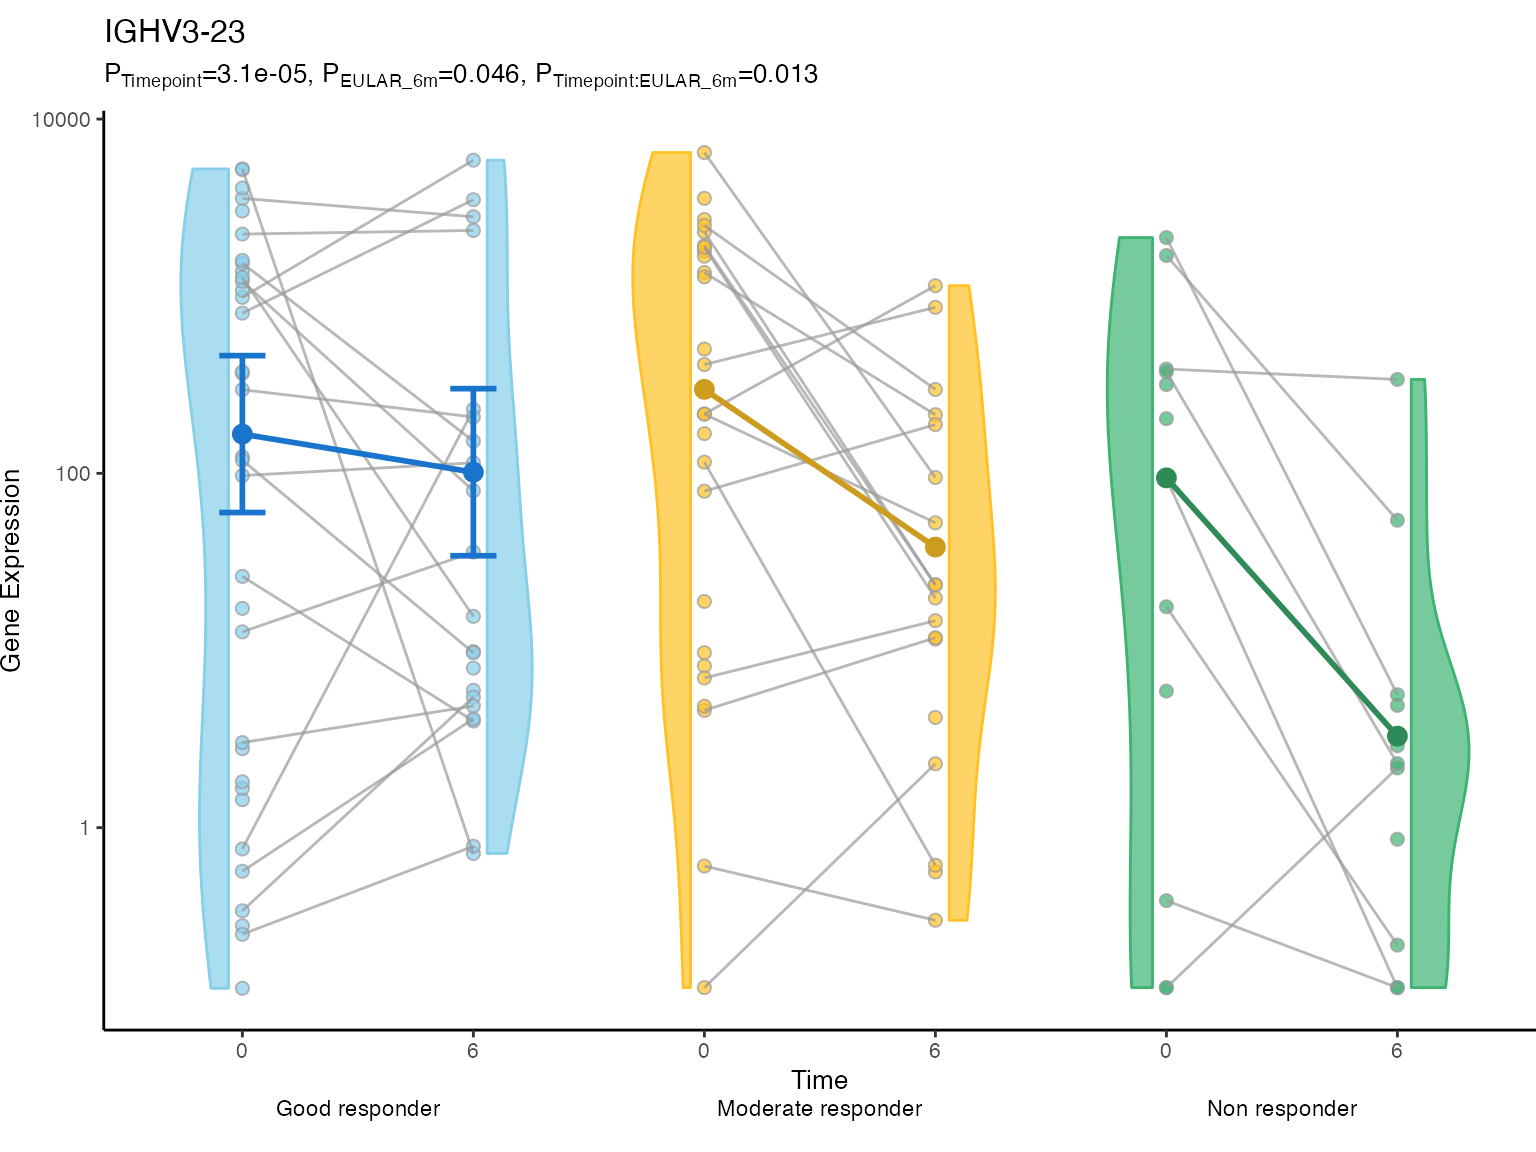
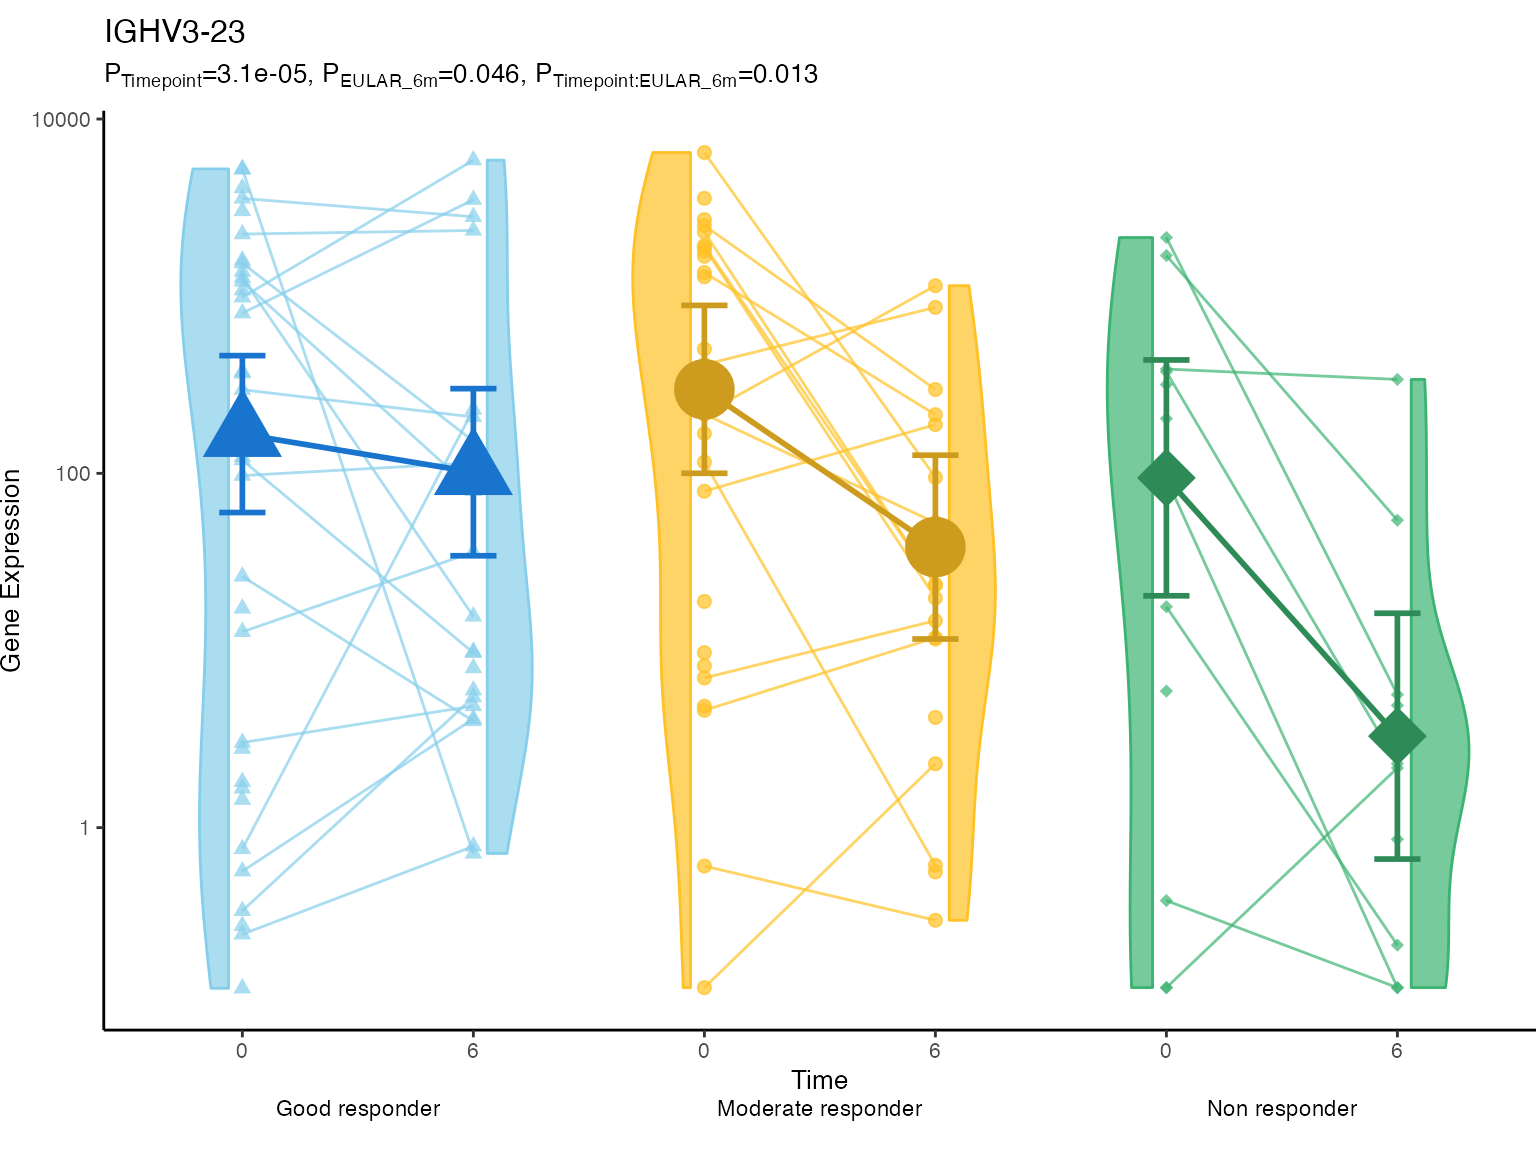
udpate website

diff --git a/docs/articles/glmmSeq.html b/docs/articles/glmmSeq.html
@@ -97,7 +97,7 @@
       <h1 data-toc-skip>glmmSeq</h1>
                         <h4 class="author">Myles Lewis, Katriona Goldmann, Elisabetta Sciacca, Cankut Cubuk, Anna Surace</h4>
             
-            <h4 class="date">2021-04-18</h4>
+            <h4 class="date">2021-05-13</h4>
       
       <small class="dont-index">Source: <a href="https://github.com/KatrionaGoldmann/glmmSeq/blob/master/vignettes/glmmSeq.rmd"><code>vignettes/glmmSeq.rmd</code></a></small>
       <div class="hidden name"><code>glmmSeq.rmd</code></div>
@@ -113,7 +113,7 @@
   margin-right: auto;
 }
 </style>
-<p><a href="https://lifecycle.r-lib.org/articles/stages.html#stable"><img src="https://img.shields.io/badge/lifecycle-stable-blue.svg" alt="Lifecycle: Maturing"></a> <a href="https://choosealicense.com/licenses/mit/"><img src="https://img.shields.io/badge/License-MIT-mediumpurple.svg" alt="License: MIT"></a> <a href="https://CRAN.R-project.org/package=glmmSeq"><img src="https://www.r-pkg.org/badges/version/glmmSeq" alt="CRAN status"></a> <a href="https://CRAN.R-project.org/package=glmmSeq"><img src="https://cranlogs.r-pkg.org/badges/grand-total/glmmSeq?color=orange" alt="Downloads"></a> <a href="https://github.com/KatrionaGoldmann/glmmSeq/blob/master/NEWS.md"><img src="https://img.shields.io/badge/last%20git%20commit-2021--04--18-turquoise.svg" alt="2021-04-18"></a> <a href="https://GitHub.com/KatrionaGoldmann/glmmSeq/issues/"><img src="https://img.shields.io/github/issues/KatrionaGoldmann/glmmSeq.svg" alt="GitHub issues"></a> <a href="https://github.com/KatrionaGoldmann/glmmSeq"><img src="https://img.shields.io/travis/KatrionaGoldmann/glmmSeq.svg" alt="Travis"></a></p>
+<p><a href="https://lifecycle.r-lib.org/articles/stages.html#stable"><img src="https://img.shields.io/badge/lifecycle-stable-blue.svg" alt="Lifecycle: Maturing"></a> <a href="https://choosealicense.com/licenses/mit/"><img src="https://img.shields.io/badge/License-MIT-mediumpurple.svg" alt="License: MIT"></a> <a href="https://CRAN.R-project.org/package=glmmSeq"><img src="https://www.r-pkg.org/badges/version/glmmSeq" alt="CRAN status"></a> <a href="https://CRAN.R-project.org/package=glmmSeq"><img src="https://cranlogs.r-pkg.org/badges/grand-total/glmmSeq?color=orange" alt="Downloads"></a> <a href="https://github.com/KatrionaGoldmann/glmmSeq/blob/master/NEWS.md"><img src="https://img.shields.io/badge/last%20git%20commit-2021--05--13-turquoise.svg" alt="2021-05-13"></a> <a href="https://GitHub.com/KatrionaGoldmann/glmmSeq/issues/"><img src="https://img.shields.io/github/issues/KatrionaGoldmann/glmmSeq.svg" alt="GitHub issues"></a> <a href="https://github.com/KatrionaGoldmann/glmmSeq"><img src="https://img.shields.io/travis/KatrionaGoldmann/glmmSeq.svg" alt="Travis"></a></p>
 <div id="glmmseq" class="section level1">
 <h1 class="hasAnchor">
 <a href="#glmmseq" class="anchor"></a>glmmSeq</h1>
@@ -3042,7 +3042,7 @@ div.blue { background-color:#e6f0ff; border-radius: 5px; padding: 10px; text-ali
                   cores <span class="op">=</span> <span class="fl">1</span><span class="op">)</span></code></pre></div>
 <pre><code>## 
 ## n = 124 samples, 82 individuals
-## Time difference of 22.63919 secs</code></pre>
+## Time difference of 20.6023 secs</code></pre>
 <p>or alternatively using two-factor classification with EULAR_binary:</p>
 <div class="sourceCode" id="cb20"><pre class="downlit sourceCode r">
 <code class="sourceCode R"><span class="va">results2</span> <span class="op">&lt;-</span> <span class="fu"><a href="../reference/glmmSeq.html">glmmSeq</a></span><span class="op">(</span><span class="op">~</span> <span class="va">Timepoint</span> <span class="op">*</span> <span class="va">EULAR_binary</span> <span class="op">+</span> <span class="op">(</span><span class="fl">1</span> <span class="op">|</span> <span class="va">PATID</span><span class="op">)</span>,
@@ -3055,7 +3055,7 @@ div.blue { background-color:#e6f0ff; border-radius: 5px; padding: 10px; text-ali
                   cores <span class="op">=</span> <span class="fl">1</span><span class="op">)</span></code></pre></div>
 <pre><code>## 
 ## n = 124 samples, 82 individuals
-## Time difference of 20.82469 secs</code></pre>
+## Time difference of 20.19051 secs</code></pre>
 <div id="outputs" class="section level2">
 <h2 class="hasAnchor">
 <a href="#outputs" class="anchor"></a>Outputs</h2>
@@ -8782,7 +8782,10 @@ LILRB3
 <p>Plots can be viewed using either ggplot or base graphics. We can start looking at the gene with the most significant interaction <em>IGHV3-23</em>:</p>
 <div class="sourceCode" id="cb32"><pre class="downlit sourceCode r">
 <code class="sourceCode R"><span class="va">plotColours</span> <span class="op">&lt;-</span> <span class="fu"><a href="https://rdrr.io/r/base/c.html">c</a></span><span class="op">(</span><span class="st">"skyblue"</span>, <span class="st">"goldenrod1"</span>, <span class="st">"mediumseagreen"</span><span class="op">)</span>
-<span class="va">modColours</span> <span class="op">&lt;-</span> <span class="fu"><a href="https://rdrr.io/r/base/c.html">c</a></span><span class="op">(</span><span class="st">"dodgerblue3"</span>, <span class="st">"goldenrod3"</span>, <span class="st">"seagreen4"</span><span class="op">)</span>
+<span class="va">modColours</span> <span class="op">&lt;-</span> <span class="fu"><a href="https://rdrr.io/r/base/c.html">c</a></span><span class="op">(</span><span class="st">"Good responder"</span><span class="op">=</span><span class="st">"dodgerblue3"</span>, 
+                <span class="st">"Moderate responder"</span><span class="op">=</span> <span class="st">"goldenrod3"</span>, 
+                <span class="st">"Non responder"</span><span class="op">=</span><span class="st">"seagreen4"</span><span class="op">)</span>
+<span class="va">shapes</span> <span class="op">&lt;-</span> <span class="fu"><a href="https://rdrr.io/r/base/c.html">c</a></span><span class="op">(</span><span class="st">"Moderate responder"</span><span class="op">=</span><span class="fl">19</span>, <span class="st">"Good responder"</span><span class="op">=</span> <span class="fl">17</span>, <span class="st">"Non responder"</span><span class="op">=</span><span class="fl">18</span><span class="op">)</span>
 
 <span class="fu"><a href="../reference/pairedPlot.html">pairedPlot</a></span><span class="op">(</span>glmmResult<span class="op">=</span><span class="va">results</span>,
            geneName <span class="op">=</span> <span class="st">"IGHV3-23"</span>,
@@ -8792,9 +8795,11 @@ LILRB3
            IDColumn <span class="op">=</span> <span class="st">"PATID"</span>,
            graphics <span class="op">=</span> <span class="st">"ggplot"</span>,
            colours <span class="op">=</span> <span class="va">plotColours</span>,
-           modelColour <span class="op">=</span> <span class="va">modColours</span>,
-           modelLineColour <span class="op">=</span> <span class="va">modColours</span>,
-           lineColour <span class="op">=</span> <span class="st">"grey60"</span>,
+           shapes <span class="op">=</span> <span class="va">shapes</span>,
+           lineColours <span class="op">=</span> <span class="va">plotColours</span>, 
+           modelColours <span class="op">=</span> <span class="va">modColours</span>,
+           modelLineColours <span class="op">=</span> <span class="va">modColours</span>,
+           modelSize <span class="op">=</span> <span class="fl">10</span>, 
            fontSize<span class="op">=</span><span class="fl">10</span>,
            x2Offset <span class="op">=</span> <span class="fl">8</span>,
            logTransform<span class="op">=</span><span class="cn">TRUE</span>,
@@ -8815,8 +8820,8 @@ LILRB3
                 fontSize<span class="op">=</span><span class="fl">0.65</span>,
                 colours<span class="op">=</span><span class="fu"><a href="https://rdrr.io/r/base/c.html">c</a></span><span class="op">(</span><span class="st">"coral"</span>, <span class="st">"mediumseagreen"</span><span class="op">)</span>,
                 addModel<span class="op">=</span><span class="cn">T</span>,
-                modelColour <span class="op">=</span> <span class="fu"><a href="https://rdrr.io/r/base/c.html">c</a></span><span class="op">(</span><span class="st">"coral"</span>, <span class="st">"mediumseagreen"</span><span class="op">)</span>,
-                modelLineColour <span class="op">=</span> <span class="st">"black"</span>,
+                modelColours <span class="op">=</span> <span class="fu"><a href="https://rdrr.io/r/base/c.html">c</a></span><span class="op">(</span><span class="st">"coral"</span>, <span class="st">"mediumseagreen"</span><span class="op">)</span>,
+                modelLineColours <span class="op">=</span> <span class="st">"black"</span>,
                 modelSize <span class="op">=</span> <span class="fl">2</span><span class="op">)</span>
 
 <span class="va">p2</span> <span class="op">=</span> <span class="fu"><a href="../reference/pairedPlot.html">pairedPlot</a></span><span class="op">(</span>glmmResult<span class="op">=</span><span class="va">results</span>,

diff --git a/docs/reference/glmmQvals.html b/docs/reference/glmmQvals.html
@@ -179,8 +179,8 @@ mixed models with adjusted p-values using the qvalue function</p>
 
     <h2 class="hasAnchor" id="examples"><a class="anchor" href="#examples"></a>Examples</h2>
     <pre class="examples"><div class='input'><span class='fu'><a href='https://rdrr.io/r/utils/data.html'>data</a></span><span class='op'>(</span><span class='va'>PEAC_minimal_load</span><span class='op'>)</span>
-<span class='va'>disp</span> <span class='op'>&lt;-</span> <span class='fu'><a href='https://rdrr.io/r/base/apply.html'>apply</a></span><span class='op'>(</span><span class='va'>tpm</span>, <span class='fl'>1</span>, <span class='kw'>function</span><span class='op'>(</span><span class='va'>x</span><span class='op'>)</span> <span class='op'>{</span> 
-<span class='op'>(</span><span class='fu'><a href='https://rdrr.io/r/stats/cor.html'>var</a></span><span class='op'>(</span><span class='va'>x</span>, na.rm<span class='op'>=</span><span class='cn'>TRUE</span><span class='op'>)</span><span class='op'>-</span><span class='fu'><a href='https://rdrr.io/r/base/mean.html'>mean</a></span><span class='op'>(</span><span class='va'>x</span>, na.rm <span class='op'>=</span> <span class='cn'>TRUE</span><span class='op'>)</span><span class='op'>)</span><span class='op'>/</span><span class='op'>(</span><span class='fu'><a href='https://rdrr.io/r/base/mean.html'>mean</a></span><span class='op'>(</span><span class='va'>x</span>, na.rm <span class='op'>=</span> <span class='cn'>TRUE</span><span class='op'>)</span><span class='op'>**</span><span class='fl'>2</span><span class='op'>)</span> 
+<span class='va'>disp</span> <span class='op'>&lt;-</span> <span class='fu'><a href='https://rdrr.io/r/base/apply.html'>apply</a></span><span class='op'>(</span><span class='va'>tpm</span>, <span class='fl'>1</span>, <span class='kw'>function</span><span class='op'>(</span><span class='va'>x</span><span class='op'>)</span> <span class='op'>{</span>
+<span class='op'>(</span><span class='fu'><a href='https://rdrr.io/r/stats/cor.html'>var</a></span><span class='op'>(</span><span class='va'>x</span>, na.rm<span class='op'>=</span><span class='cn'>TRUE</span><span class='op'>)</span><span class='op'>-</span><span class='fu'><a href='https://rdrr.io/r/base/mean.html'>mean</a></span><span class='op'>(</span><span class='va'>x</span>, na.rm <span class='op'>=</span> <span class='cn'>TRUE</span><span class='op'>)</span><span class='op'>)</span><span class='op'>/</span><span class='op'>(</span><span class='fu'><a href='https://rdrr.io/r/base/mean.html'>mean</a></span><span class='op'>(</span><span class='va'>x</span>, na.rm <span class='op'>=</span> <span class='cn'>TRUE</span><span class='op'>)</span><span class='op'>**</span><span class='fl'>2</span><span class='op'>)</span>
 <span class='op'>}</span><span class='op'>)</span>
 <span class='va'>MS4A1glmm</span> <span class='op'>&lt;-</span> <span class='fu'><a href='glmmSeq.html'>glmmSeq</a></span><span class='op'>(</span><span class='op'>~</span> <span class='va'>Timepoint</span> <span class='op'>*</span> <span class='va'>EULAR_6m</span> <span class='op'>+</span> <span class='op'>(</span><span class='fl'>1</span> <span class='op'>|</span> <span class='va'>PATID</span><span class='op'>)</span>,
                      id <span class='op'>=</span> <span class='st'>"PATID"</span>,
@@ -191,7 +191,7 @@ mixed models with adjusted p-values using the qvalue function</p>
 </div><div class='output co'>#&gt; <span class='warning'>Warning: unable to evaluate scaled gradient</span></div><div class='output co'>#&gt; <span class='warning'>Warning: Model failed to converge: degenerate  Hessian with 2 negative eigenvalues</span></div><div class='output co'>#&gt; <span class='warning'>Warning: variance-covariance matrix computed from finite-difference Hessian is</span>
 #&gt; <span class='warning'>not positive definite or contains NA values: falling back to var-cov estimated from RX</span></div><div class='output co'>#&gt; <span class='warning'>Warning: variance-covariance matrix computed from finite-difference Hessian is</span>
 #&gt; <span class='warning'>not positive definite or contains NA values: falling back to var-cov estimated from RX</span></div><div class='output co'>#&gt; <span class='warning'>Warning: variance-covariance matrix computed from finite-difference Hessian is</span>
-#&gt; <span class='warning'>not positive definite or contains NA values: falling back to var-cov estimated from RX</span></div><div class='input'><span class='va'>MS4A1glmm</span> <span class='op'>&lt;-</span> <span class='fu'>glmmQvals</span><span class='op'>(</span><span class='va'>MS4A1glmm</span>, pi0<span class='op'>=</span><span class='fl'>1</span><span class='op'>)</span>                    
+#&gt; <span class='warning'>not positive definite or contains NA values: falling back to var-cov estimated from RX</span></div><div class='input'><span class='va'>MS4A1glmm</span> <span class='op'>&lt;-</span> <span class='fu'>glmmQvals</span><span class='op'>(</span><span class='va'>MS4A1glmm</span>, pi0<span class='op'>=</span><span class='fl'>1</span><span class='op'>)</span>
 </div><div class='output co'>#&gt; 
 #&gt; q_Timepoint
 #&gt; -----------

diff --git a/docs/reference/pairedPlot.html b/docs/reference/pairedPlot.html
@@ -154,9 +154,9 @@
   yTitle <span class='op'>=</span> <span class='st'>"Gene Expression"</span>,
   title <span class='op'>=</span> <span class='cn'>NULL</span>,
   logTransform <span class='op'>=</span> <span class='cn'>FALSE</span>,
-  shapes <span class='op'>=</span> <span class='fl'>21</span>,
+  shapes <span class='op'>=</span> <span class='fl'>19</span>,
   colours <span class='op'>=</span> <span class='st'>"red"</span>,
-  lineColour <span class='op'>=</span> <span class='st'>"grey60"</span>,
+  lineColours <span class='op'>=</span> <span class='st'>"grey60"</span>,
   markerSize <span class='op'>=</span> <span class='fl'>2</span>,
   fontSize <span class='op'>=</span> <span class='cn'>NULL</span>,
   alpha <span class='op'>=</span> <span class='fl'>0.7</span>,
@@ -165,9 +165,9 @@
   graphics <span class='op'>=</span> <span class='st'>"base"</span>,
   addModel <span class='op'>=</span> <span class='cn'>TRUE</span>,
   modelSize <span class='op'>=</span> <span class='fl'>3</span>,
-  modelColour <span class='op'>=</span> <span class='st'>"black"</span>,
+  modelColours <span class='op'>=</span> <span class='st'>"black"</span>,
   modelLineSize <span class='op'>=</span> <span class='fl'>1</span>,
-  modelLineColour <span class='op'>=</span> <span class='cn'>NULL</span>,
+  modelLineColours <span class='op'>=</span> <span class='cn'>NULL</span>,
   addBox <span class='op'>=</span> <span class='cn'>FALSE</span>,
   addViolins <span class='op'>=</span> <span class='cn'>TRUE</span>,
   violinWidth <span class='op'>=</span> <span class='fl'>0.5</span>,
@@ -217,14 +217,14 @@ to be paired using the ID.</p></td>
     </tr>
     <tr>
       <th>shapes</th>
-      <td><p>The marker shapes (default=21)</p></td>
+      <td><p>The marker shapes (default=19)</p></td>
     </tr>
     <tr>
       <th>colours</th>
       <td><p>The marker colours (default='red') as vector or named vector</p></td>
     </tr>
     <tr>
-      <th>lineColour</th>
+      <th>lineColours</th>
       <td><p>The line colours (default='grey60') as vector or named
 vector</p></td>
     </tr>
@@ -261,7 +261,7 @@ vector</p></td>
       <td><p>Size of model points (default=3)</p></td>
     </tr>
     <tr>
-      <th>modelColour</th>
+      <th>modelColours</th>
       <td><p>Colour of model fit markers (default="black") as vector
 or named vector</p></td>
     </tr>
@@ -271,7 +271,7 @@ or named vector</p></td>
 vector</p></td>
     </tr>
     <tr>
-      <th>modelLineColour</th>
+      <th>modelLineColours</th>
       <td><p>Colour of model fit lines. If NULL same colours as
 modelColour used (default=NULL).</p></td>
     </tr>

diff --git a/docs/reference/maPlot.html b/docs/reference/maPlot.html
@@ -253,7 +253,7 @@ figure</p>
 #&gt; n = 149 samples, 105 individuals</div><div class='output co'>#&gt; <span class='warning'>Warning: unable to evaluate scaled gradient</span></div><div class='output co'>#&gt; <span class='warning'>Warning: Model failed to converge: degenerate  Hessian with 2 negative eigenvalues</span></div><div class='output co'>#&gt; <span class='warning'>Warning: variance-covariance matrix computed from finite-difference Hessian is</span>
 #&gt; <span class='warning'>not positive definite or contains NA values: falling back to var-cov estimated from RX</span></div><div class='output co'>#&gt; <span class='warning'>Warning: variance-covariance matrix computed from finite-difference Hessian is</span>
 #&gt; <span class='warning'>not positive definite or contains NA values: falling back to var-cov estimated from RX</span></div><div class='output co'>#&gt; <span class='warning'>Warning: variance-covariance matrix computed from finite-difference Hessian is</span>
-#&gt; <span class='warning'>not positive definite or contains NA values: falling back to var-cov estimated from RX</span></div><div class='output co'>#&gt; Time difference of 1.590468 secs</div><div class='input'>
+#&gt; <span class='warning'>not positive definite or contains NA values: falling back to var-cov estimated from RX</span></div><div class='output co'>#&gt; Time difference of 0.830503 secs</div><div class='input'>
 <span class='va'>plots</span> <span class='op'>&lt;-</span> <span class='fu'>maPlot</span><span class='op'>(</span><span class='va'>resultTable</span>,
                 x1Label<span class='op'>=</span><span class='st'>'Timepoint'</span>,
                 x2Label<span class='op'>=</span><span class='st'>'EULAR_6m'</span>,

diff --git a/docs/reference/modelPlot.html b/docs/reference/modelPlot.html
@@ -153,7 +153,7 @@
   yTitle <span class='op'>=</span> <span class='st'>"Gene Expression"</span>,
   title <span class='op'>=</span> <span class='cn'>NULL</span>,
   logTransform <span class='op'>=</span> <span class='cn'>FALSE</span>,
-  shapes <span class='op'>=</span> <span class='fl'>21</span>,
+  shapes <span class='op'>=</span> <span class='fl'>19</span>,
   colours <span class='op'>=</span> <span class='fu'><a href='https://rdrr.io/r/base/c.html'>c</a></span><span class='op'>(</span><span class='st'>"blue"</span><span class='op'>)</span>,
   x2Offset <span class='op'>=</span> <span class='fl'>6</span>,
   lineWidth <span class='op'>=</span> <span class='fl'>1</span>,
@@ -203,7 +203,7 @@
     </tr>
     <tr>
       <th>shapes</th>
-      <td><p>The marker shapes, default=21</p></td>
+      <td><p>The marker shapes, default=19</p></td>
     </tr>
     <tr>
       <th>colours</th>

diff --git a/docs/news/index.html b/docs/news/index.html
@@ -142,11 +142,14 @@
 <h1 class="page-header" data-toc-text="0.1.1">
 <a href="#glmmseq-v011" class="anchor"></a>glmmSeq v0.1.1<small> Unreleased </small>
 </h1>
+<div id="18042021" class="section level6">
+<h6>18/04/2021</h6>
+</div>
 <div id="bug-fixes" class="section level5">
 <h5 class="hasAnchor">
 <a href="#bug-fixes" class="anchor"></a>Bug Fixes</h5>
 <ul>
-<li>Fix colours in paired_plots</li>
+<li>Fix colours in pairedPlots and modelPlots</li>
 </ul>
 </div>
 </div>
